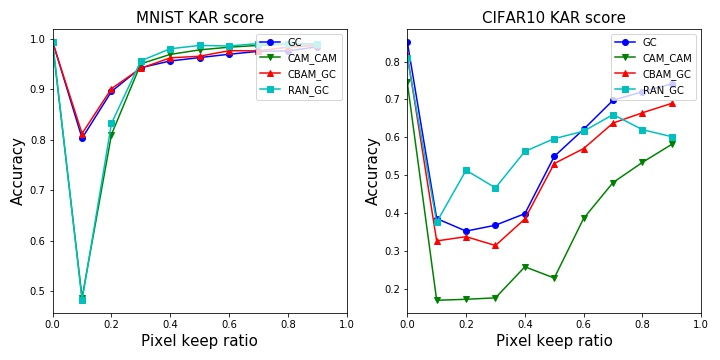
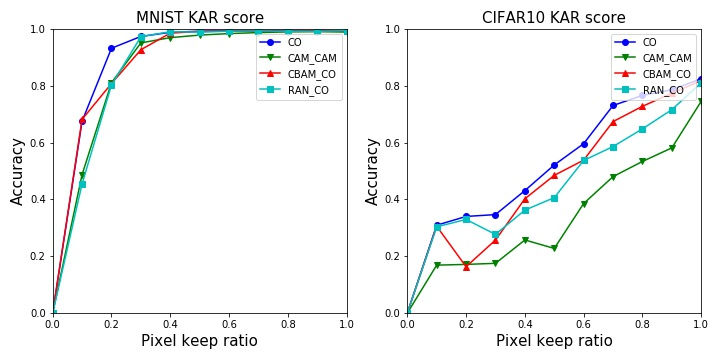
CO ROAR and KAR

diff --git a/code/visualization.py b/code/visualization.py
@@ -168,11 +168,11 @@ def visualize_ROARnKAR(targets, ratio_lst, eval_method, methods=None, attention=
         if methods[i] == 'CAM':
             methods[i] = 'CAM_CAM'
         elif methods[i] == 'CBAM':
-            methods[i] = 'CBAM_GC'
+            methods[i] = 'CBAM_CO'
         elif methods[i] == 'RAN':
-            methods[i] = 'RAN_GC'
+            methods[i] = 'RAN_CO'
         elif methods[i] == 'WARN':
-            methods[i] = 'WARN_GC'
+            methods[i] = 'WARN_CO'
 
     # initialize
     fontsize = 10 if 'fontsize' not in kwargs.keys() else kwargs['fontsize']
@@ -188,30 +188,52 @@ def visualize_ROARnKAR(targets, ratio_lst, eval_method, methods=None, attention=
         test_acc[target] = {m: [] for m in methods}
 
     # load test accuracy
-    for m in methods:
-        for target in targets:
-            if ('CAM' in m) or ('CBAM' in m):
-                model_name = '{}_{}_{}'.format('simple_cnn', target,m.split('_')[0])
-            elif ('RAN' in m) or ('WARN' in m):
-                model_name = '{}_{}'.format(target, m.split('_')[0])
-            else:
-                model_name = '{}_{}'.format('simple_cnn', target)
+    def get_test_acc(methods, targets, test_acc):
+        for m in methods:
+            for target in targets:
+                if ('CAM' in m) or ('CBAM' in m):
+                    model_name = '{}_{}_{}'.format('simple_cnn', target,m.split('_')[0])
+                elif ('RAN' in m) or ('WARN' in m):
+                    model_name = '{}_{}'.format(target, m.split('_')[0])
+                else:
+                    model_name = '{}_{}'.format('simple_cnn', target)
 
-            f = open('../logs/{}_logs.txt'.format(model_name),'r')
-            acc = json.load(f)['test_result']
-            test_acc[target][m].append(acc)
+                f = open('../logs/{}_logs.txt'.format(model_name),'r')
+                acc = json.load(f)['test_result']
+                test_acc[target][m].append(acc)
+        return test_acc
+
 
     # load roar/kar accuracy
-    for target in targets:
-        for m in methods:
-            if ('RAN' in m) or ('WARN' in m):
-                model_name = '{}_{}'.format(target, m)
-            else:
-                model_name = '{}_{}_{}'.format('simple_cnn', target, m)
+    def get_roar_kar_test_acc(methods, targets, test_acc):
+        for target in targets:
+            for m in methods:
+                if ('RAN' in m) or ('WARN' in m):
+                    model_name = '{}_{}'.format(target, m)
+                else:
+                    model_name = '{}_{}_{}'.format('simple_cnn', target, m)
 
-            for ratio in ratio_lst[1:]:
-                f = open('../logs/{0:}_{1:}{2:.1f}_logs.txt'.format(model_name, eval_method, ratio),'r')
-                test_acc[target][m].append(json.load(f)['test_result'])
+                for ratio in ratio_lst[1:-1]:
+                    f = open('../logs/{0:}_{1:}{2:.1f}_logs.txt'.format(model_name, eval_method, ratio),'r')
+                    test_acc[target][m].append(json.load(f)['test_result'])
+        return test_acc
+
+    # insert 0 
+    def get_0_test_acc(methods, targets, test_acc):
+        for target in targets:
+            for m in methods:
+                test_acc[target][m].append(0)
+        return test_acc
+
+    # ROAR or KAR
+    if eval_method=='ROAR':
+        test_acc = get_test_acc(methods, targets, test_acc)
+        test_acc = get_roar_kar_test_acc(methods, targets, test_acc)
+        test_acc = get_0_test_acc(methods, targets, test_acc)
+    elif eval_method=='KAR':
+        test_acc = get_0_test_acc(methods, targets, test_acc)
+        test_acc = get_roar_kar_test_acc(methods, targets, test_acc)
+        test_acc = get_test_acc(methods, targets, test_acc)
 
     # plotting
     f, ax = plt.subplots(1,2,figsize=size)
@@ -223,6 +245,7 @@ def visualize_ROARnKAR(targets, ratio_lst, eval_method, methods=None, attention=
         r_k = 'remove' if eval_method=='ROAR' else 'keep'
         ax[i].set_xlabel(f'Pixel {r_k} ratio', size=fontsize)
         ax[i].set_xlim([0,1])
+        ax[i].set_ylim([0,1])
         ax[i].legend(loc='upper right')
     if savedir:
         plt.tight_layout()
@@ -243,6 +266,10 @@ def make_saliency_map(dataset, model, methods, attr_method_lst, name_lst, **kwar
     Return:
 
     '''
+    if 'CO' in methods:
+        CO_attr = ConvOutput(model, **kwargs)
+        attr_method_lst.append(CO_attr)
+        name_lst.append('ConvOUtput')
     if 'VBP' in methods:
         VBP_attr = VanillaBackprop(model, **kwargs)
         attr_method_lst.append(VBP_attr)

diff --git a/code/saliency/attribution_methods.py b/code/saliency/attribution_methods.py
@@ -40,7 +40,7 @@ class ConvOutput(object):
 
     def generate_image(self, pre_imgs, targets, **kwargs):
         # default
-        layer = 8 if 'layer' not in kwargs.keys() else kwargs['layer']
+        layer = 11 if 'layer' not in kwargs.keys() else kwargs['layer']
         color = False if 'color' not in kwargs.keys() else kwargs['color']
 
         # convert target type to LongTensor
@@ -183,7 +183,7 @@ class GuidedBackprop(object):
         def relu_forward_hook_function(module, input, output):
             self.forward_relu_outputs.append(output)
 
-        for layer in self.model._module.get(self.seq_name):
+        for layer in self.model._modules.get(self.seq_name):
             if isinstance(layer, nn.ReLU):
                 layer.register_backward_hook(relu_backward_hook_function)
                 layer.register_forward_hook(relu_forward_hook_function)
